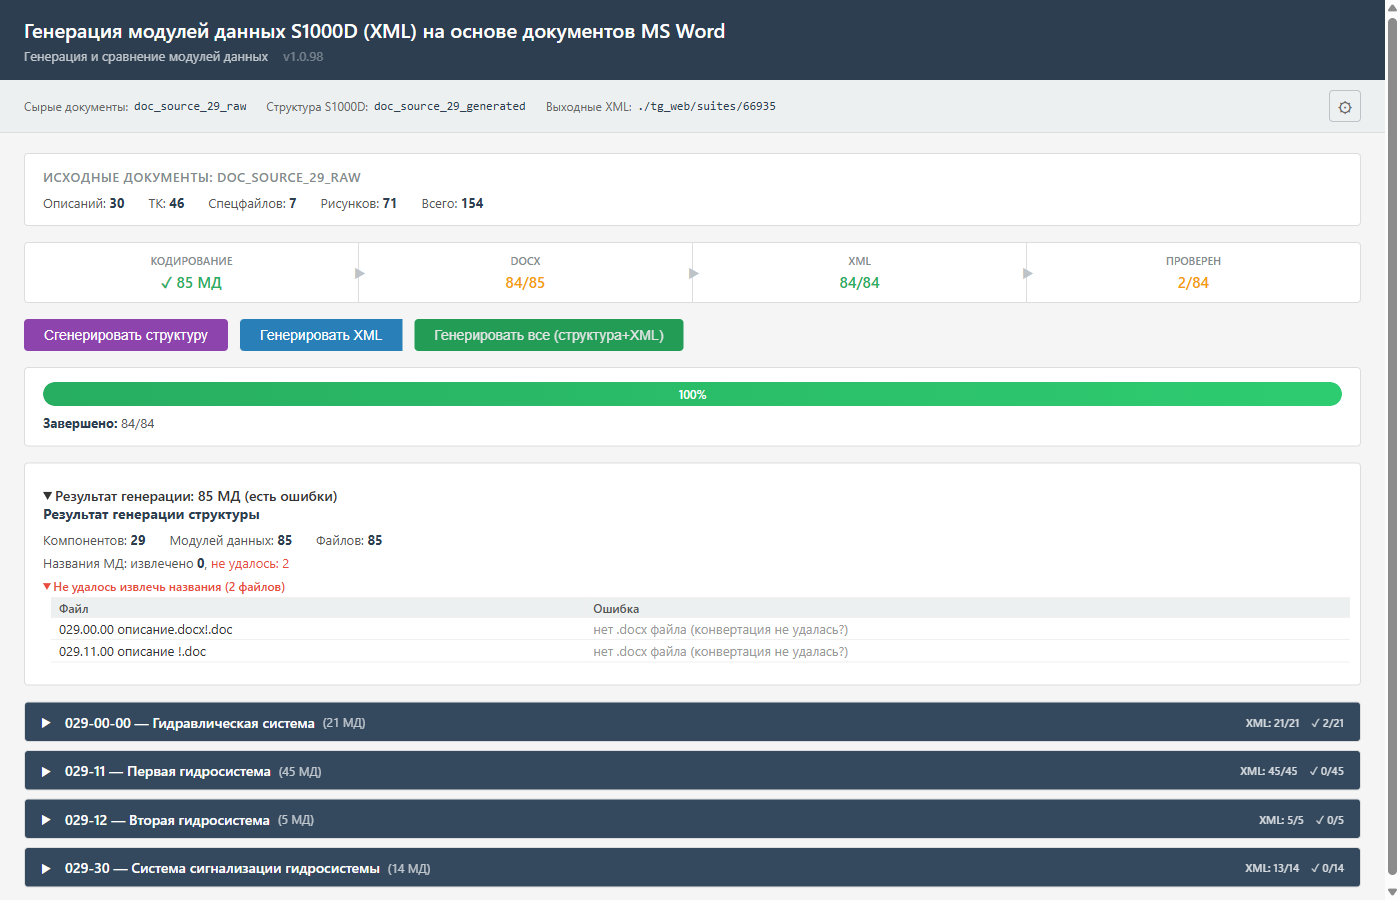
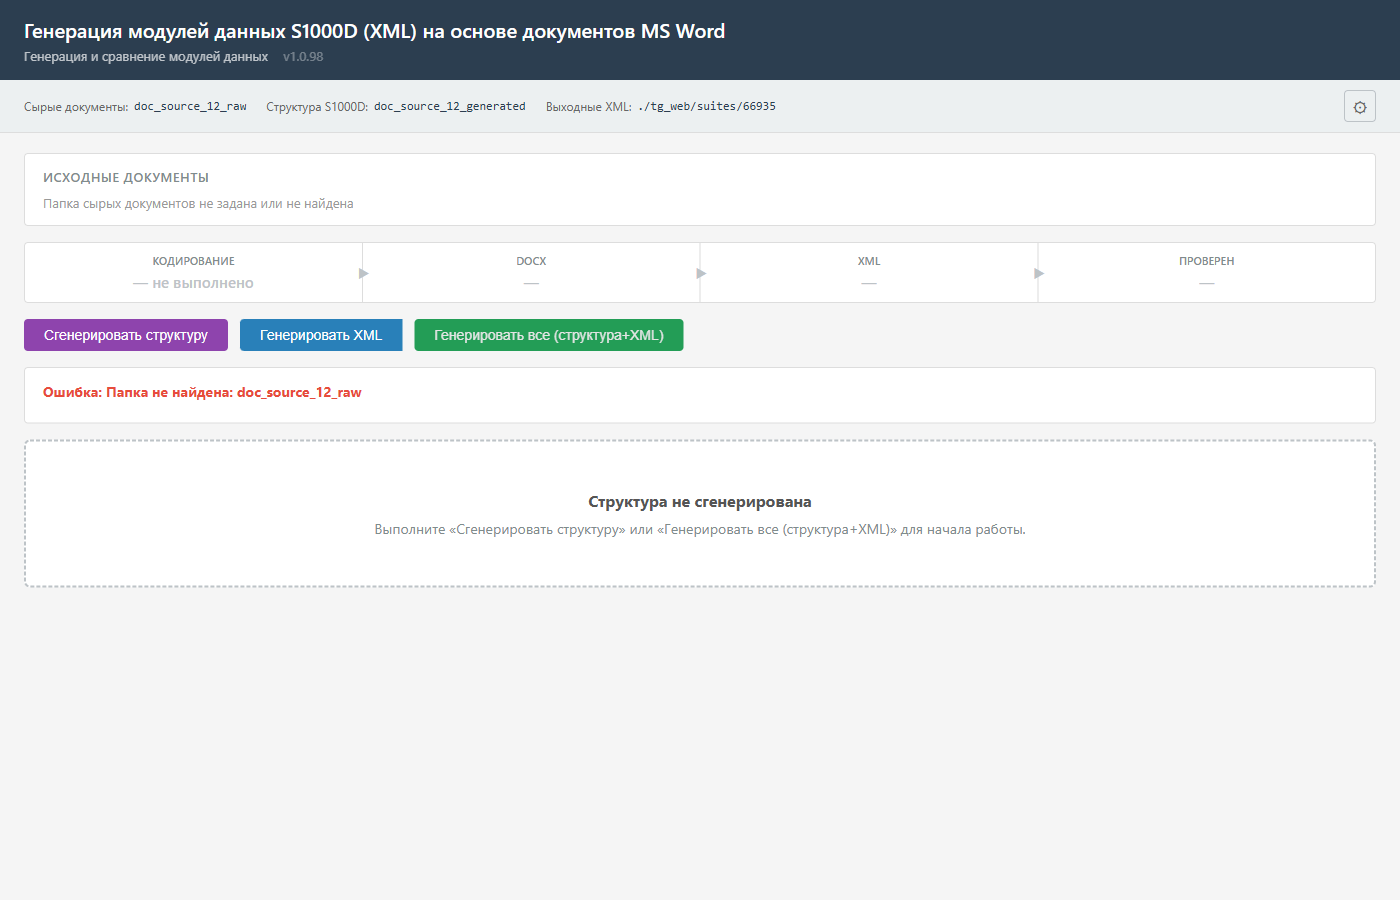
решение (?) для менее современных браузеров для отрисовки PDF

diff --git a/comparison_app/templates/comparison.html b/comparison_app/templates/comparison.html
@@ -212,6 +212,19 @@
         })();
     </script>
     {% if render_mode == 'pdf' %}
+    <script>
+        // Polyfill for Promise.withResolvers (ES2024) — needed for PDF.js 4.x on older browsers
+        if (typeof Promise.withResolvers !== 'function') {
+            Promise.withResolvers = function() {
+                let resolve, reject;
+                const promise = new Promise(function(res, rej) {
+                    resolve = res;
+                    reject = rej;
+                });
+                return { promise: promise, resolve: resolve, reject: reject };
+            };
+        }
+    </script>
     <script type="module">
         import { GlobalWorkerOptions, getDocument } from '{{ url_for("static", filename="js/pdfjs/pdf.min.mjs") }}';
         GlobalWorkerOptions.workerSrc = '{{ url_for("static", filename="js/pdfjs/pdf.worker.min.mjs") }}';
